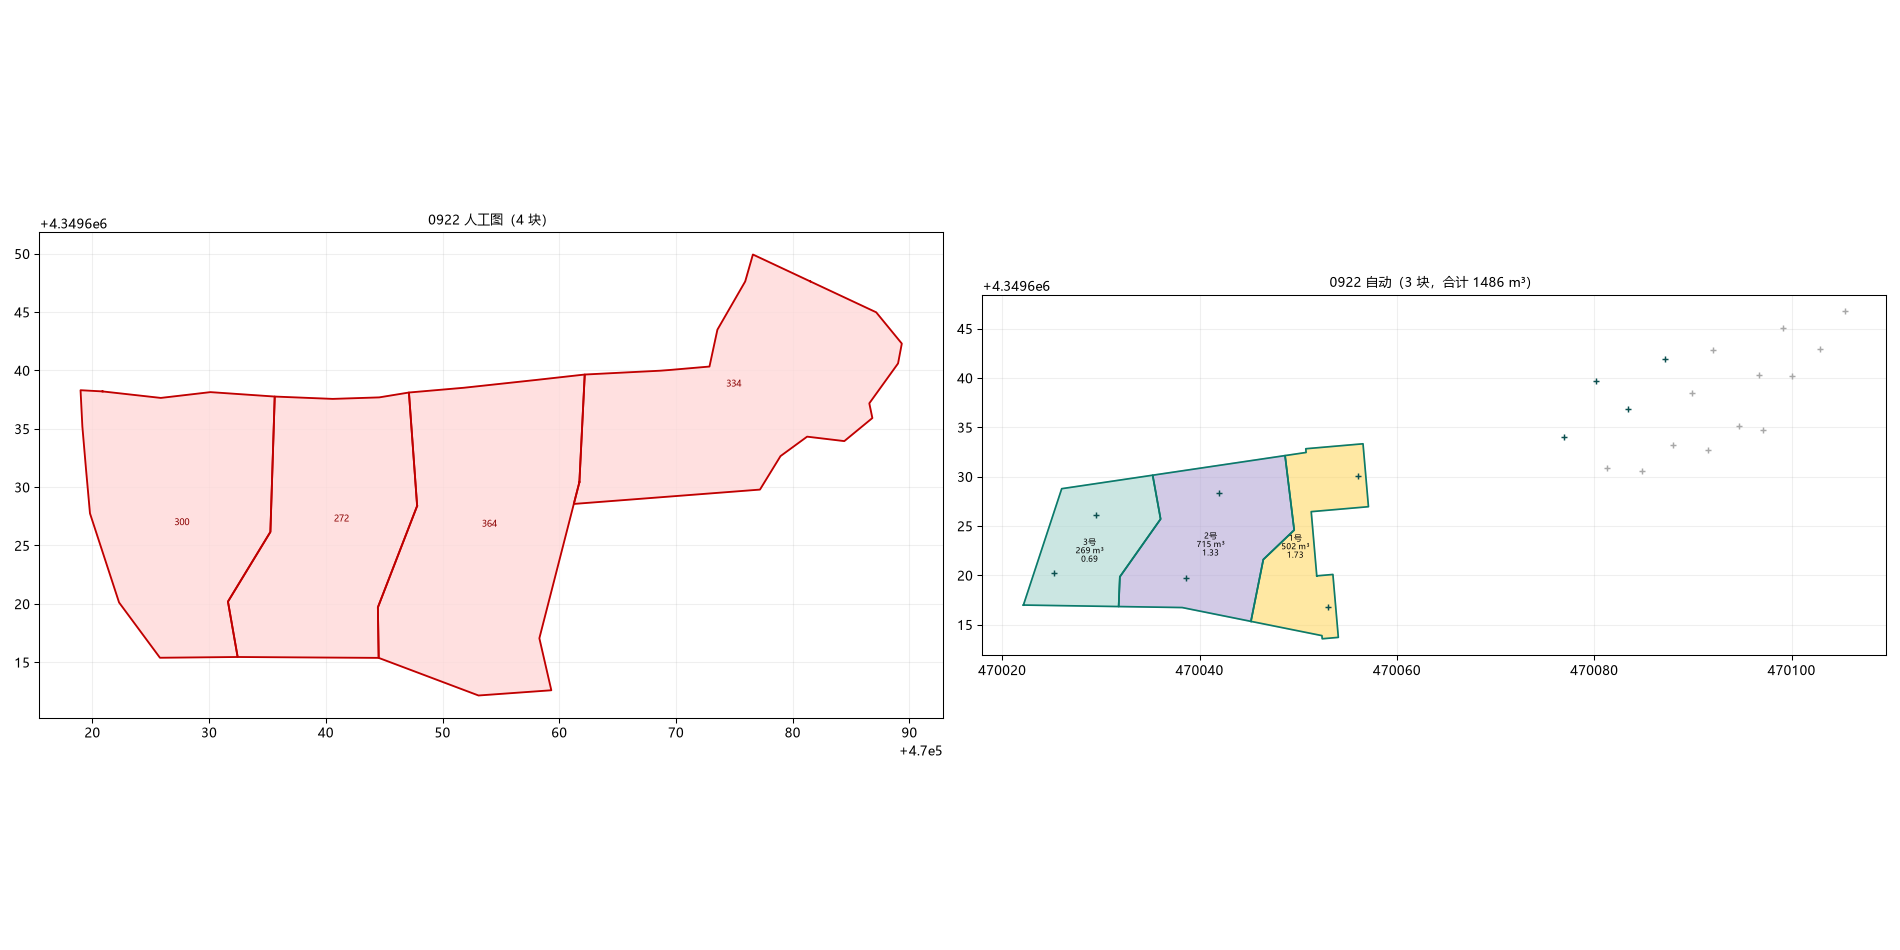
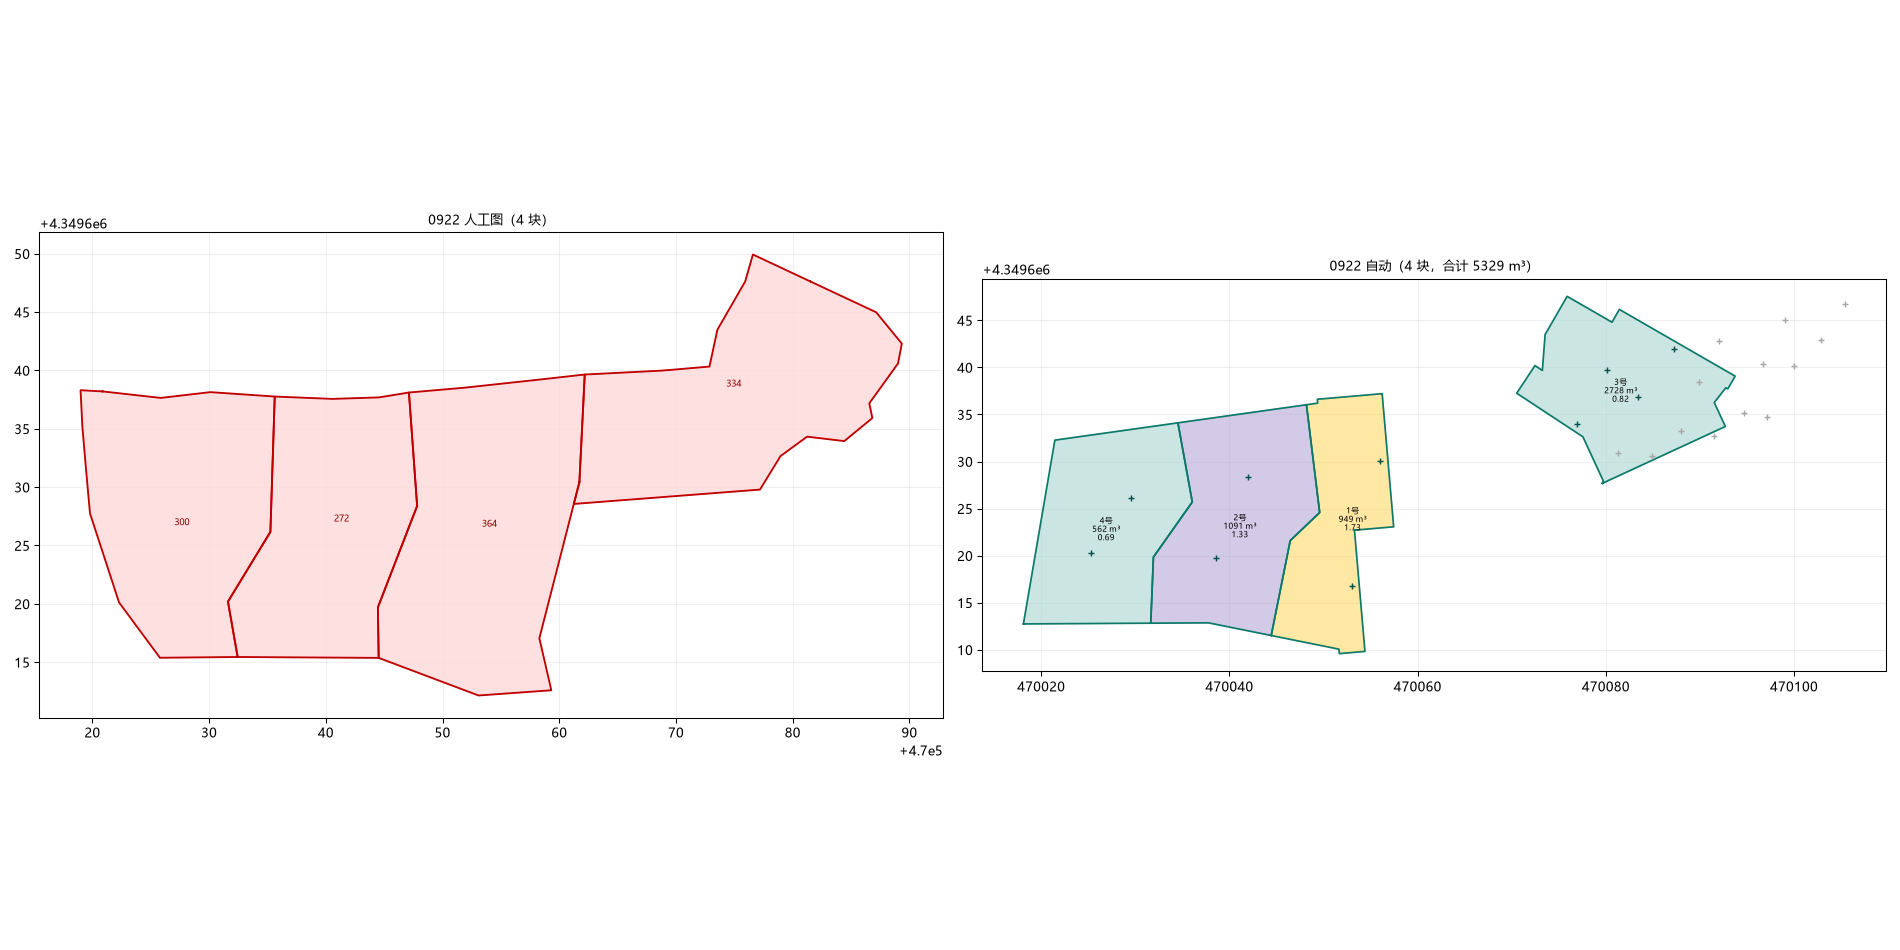
probe: 对照脚本也切到 pipeline 单一入口（0922 显示 4 块）

diff --git a/3DMine二次圈矿工具_初步原型/_probe/compare_manual_auto.py b/3DMine二次圈矿工具_初步原型/_probe/compare_manual_auto.py
@@ -21,8 +21,7 @@ ROOT = Path(__file__).resolve().parent.parent
 sys.path.insert(0, str(ROOT / "core"))
 
 from oreblocks import load_holes_xls                       # noqa: E402
-from strip import zone_outline, average_blocks             # noqa: E402
-from run_strip import pick_zone                            # noqa: E402
+from pipeline import run_blast                             # noqa: E402
 from composite import load_composite_blocks                # noqa: E402
 import params as _params                                   # noqa: E402
 
@@ -55,13 +54,11 @@ def auto_blocks(date, comp):
     holes = load_holes_xls(xls)
     allh = list(holes.values())
     P = _params.for_blast(date)
-    ore, pending = pick_zone(holes, adjacent_max=P["zone_link_m"])
-    ring = zone_outline(ore, allh, P["extrude_m"], comp_blocks=comp,
-                        merge_gap=P["merge_gap_m"], blast=date,
-                        simplify=P["simplify_m"],
-                        alpha_k=P.get("ring_alpha_k", 0.0))
-    blocks = average_blocks(ore, ring, 2.7, min_fragment=P["min_fragment_m2"])
-    return allh, ore, ring, blocks
+    res = run_blast(holes, allh, P, comp, blast=date)
+    ring = res["rings"][0] if res["rings"] else None
+    for rr in res["rings"][1:]:
+        ring = ring.union(rr)
+    return allh, res["ore"], ring, res["blocks"]
 
 
 def draw_manual(ax, man, title):
